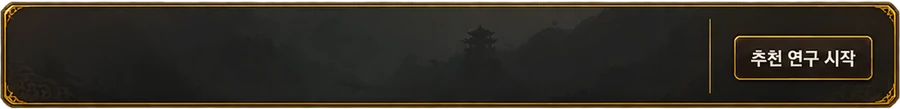
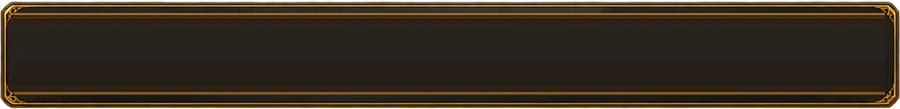
내정 · 상점 도안 다듬기: 추천 판 그림 정리, 연구 시작 금단추, 잠긴 단계는 흐리게, 상점 재화 줄 판
Claude-Session: https://claude.ai/code/session_01Lwj6iVicsWNFBn8jGJqjRB

Changed region(s): [[0.7778, 0.1927, 0.9956, 0.7431], [0.0, 0.1101, 0.9956, 0.1927], [0.0, 0.7982, 0.9956, 0.8807]]

diff --git a/src/styles/design-v2.css b/src/styles/design-v2.css
@@ -511,15 +511,15 @@ html body .terr-search { display: none; }
   html body .mres-tier .research-tier { padding: 0 8px; font-size: 11px; font-weight: 800; }
   html body .mres-tier .research-node { background: none; border: 0 solid transparent; border-width: 12px; border-image: url('/assets/ui/v2/kit/stage-box.webp') 40 fill / 12px / 0 stretch; border-radius: 0; box-shadow: none; padding: 2px 4px; }
   html body .mres-tier .research-node.is-available, html body .mres-tier .research-node.is-active, html body .mres-tier .research-node.is-switch { border-image-source: url('/assets/ui/v2/kit/stage-box-on.webp'); filter: drop-shadow(0 0 4px rgba(255, 200, 80, .55)); }
-  html body .mres-tier .research-node.is-locked, html body .mres-tier .research-node.is-busy { border-image-source: url('/assets/ui/v2/kit/stage-box-lock.webp'); }
+  html body .mres-tier .research-node.is-locked, html body .mres-tier .research-node.is-busy { opacity: .72; }
   html body .mres-tier .research-node.is-done { border-image-source: url('/assets/ui/v2/kit/stage-box.webp'); }
   html body .mres-tier .research-node h4 { color: #f6e3b0; }
   html body .mres-link { height: 3px; background: linear-gradient(90deg, #1d6f62, #4fe0c4, #1d6f62); box-shadow: 0 0 4px rgba(79, 224, 196, .7); }
-  html body .mres-tier .mini-action--research, html body .research-active .mini-action--rush { color: #2b1a06; font-weight: 900; background: none; border: 8px solid transparent; border-image: url('/assets/ui/v2/kit/btn-start.webp') 24 50 fill / 8px 16px / 0 stretch; border-radius: 0; box-shadow: none; }
-  html body .research-active .mini-action:not(.mini-action--rush), html body .research-summary .mini-action { color: #f3e3bd; background: none; border: 7px solid transparent; border-image: url('/assets/ui/v2/kit/btn-dark.webp') 20 fill / 7px / 0 stretch; border-radius: 0; box-shadow: none; }
+  html body .app-shell .main-content .mres-tier .mini-action--research, html body .app-shell .main-content .research-active .mini-action--rush { color: #2b1a06; font-weight: 900; background: none; border: 8px solid transparent; border-image: url('/assets/ui/v2/kit/btn-start.webp') 24 50 fill / 8px 16px / 0 stretch; border-radius: 0; box-shadow: none; }
+  html body .app-shell .main-content .research-active .mini-action:not(.mini-action--rush), html body .app-shell .main-content .research-summary .mini-action { color: #f3e3bd; background: none; border: 7px solid transparent; border-image: url('/assets/ui/v2/kit/btn-dark.webp') 20 fill / 7px / 0 stretch; border-radius: 0; box-shadow: none; }
 
   /* ── 상점 ── */
-  html body .page-section--shop .shop-balances--strip { background: none; border: 0 solid transparent; border-width: 8px 14px; border-image: url('/assets/ui/v2/kit/shop-strip.webp') 22 40 fill / 8px 14px / 0 stretch; border-radius: 0; box-shadow: none; }
+  html body .app-shell .main-content .page-section--shop .shop-balances--strip { background: none; border: 0 solid transparent; border-width: 8px 14px; border-image: url('/assets/ui/v2/kit/guild-notice.webp') 30 60 fill / 8px 14px / 0 stretch; border-radius: 0; box-shadow: none; }
   html body .page-section--shop .shop-tabs { gap: 4px; background: none; border: 0; }
   html body .page-section--shop .shop-tab { color: #eee2c6; font-weight: 800; background: none; border: 7px solid transparent; border-image: url('/assets/ui/v2/kit/tab-dark.webp') 20 30 fill / 7px 10px / 0 stretch; border-radius: 0; box-shadow: none; }
   html body .page-section--shop .shop-tab.is-active { color: #fff; border-image-source: url('/assets/ui/v2/kit/tab-red.webp'); text-shadow: 0 1px 1px #000; }
